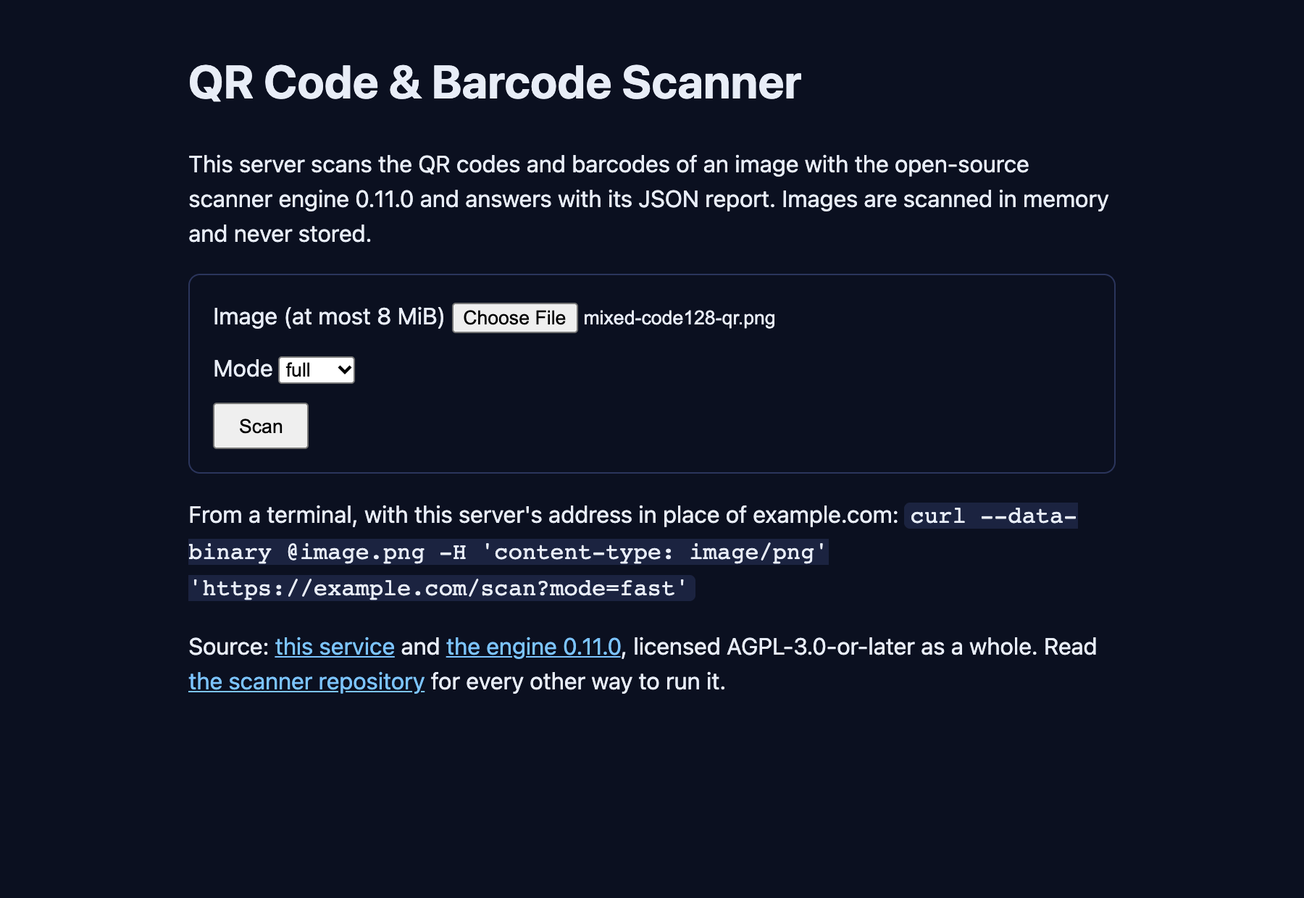
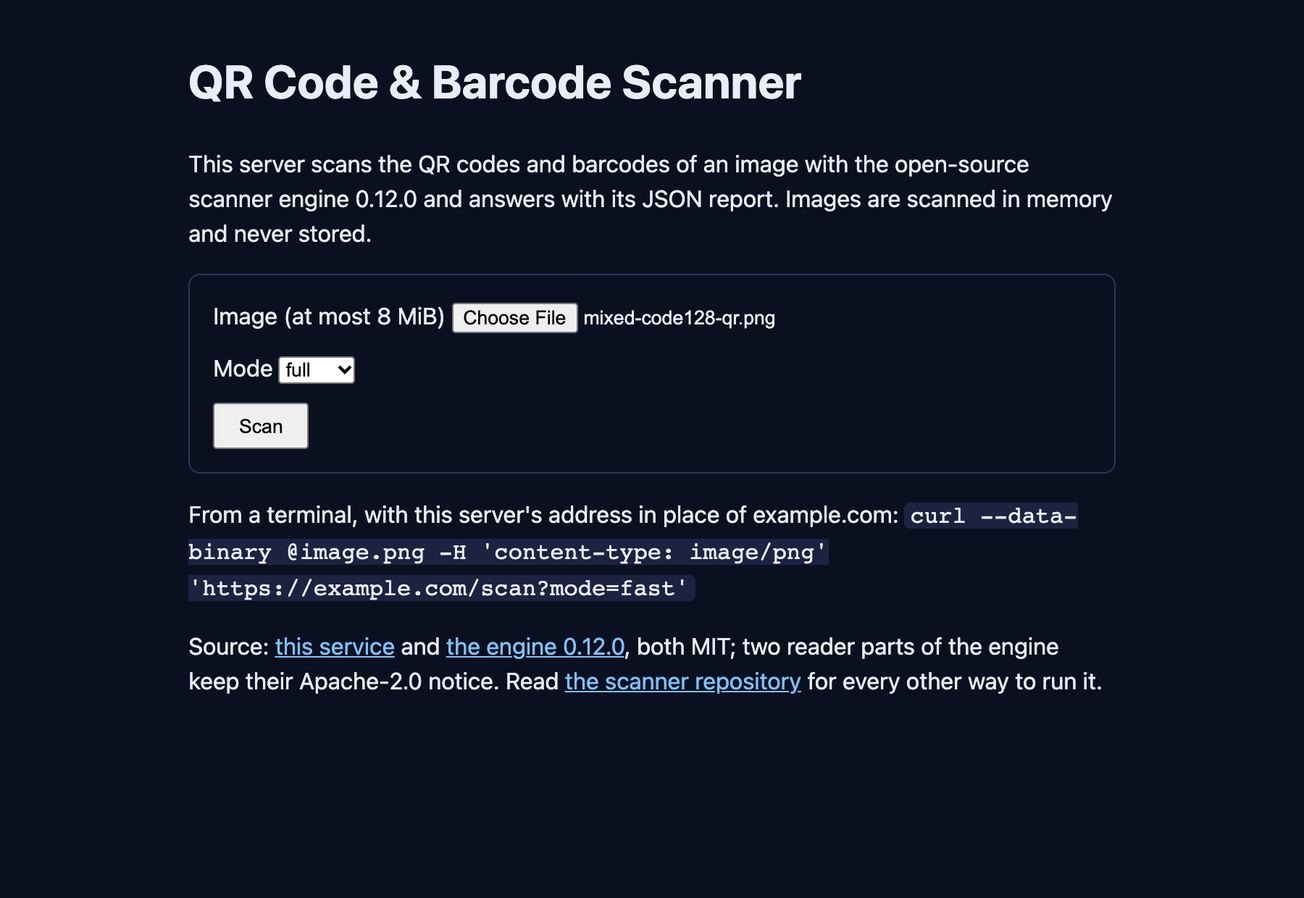
feat: stage from qrcode-ai-com/qrcode-barcode-scanner-rust
Staged from qrcode-ai-com/qrcode-barcode-scanner-rust at 383aa3d6448678af30e78440b86df7ee623f76de.

Changed region(s): [[0.1244, 0.7048, 0.84, 0.7968], [0.28, 0.2145, 0.8711, 0.2452]]

diff --git a/README.md b/README.md
@@ -13,11 +13,11 @@
 
 ### Ask AI
 
-[![ChatGPT](https://raw.githubusercontent.com/qrcode-ai-com/qrcode-barcode-scanner-rust/main/docs/assets/actions/chatgpt-v2.svg)](https://chatgpt.com/?q=Help%20me%20understand%20QR%20Code%20%26%20Barcode%20Scanner%20HTTP%20service%20%28distribution%2Fhttp%2FREADME.md%29%20for%20QR%20Code%20%26%20Barcode%20Scanner%2C%20the%20open-source%20scanner.%20Source%20documentation%3B%20publication%20is%20not%20implied.%20Provided%20README%20context%20%28verify%20against%20the%20sources%29%3A%20This%20is%20a%20small%2C%20self-hosted%20HTTP%20service%20for%20the%20QR%20Code%20%26%20Barcode%20Scanner%2C%20the%20open-source%20engine%20that%20reads%20QR%20codes%20and%20barcodes%20in%20images.%20POST%20%2Fscan%20takes%20an%20image%20and%20answers%20with%20the%20engine%27s%20JSON%20report%2C%20unchanged%3A%20every%20code%20found%2C%20its%20format%2C%20its%20exact%20text%20and%20where%20it%20sits%20in%20the%20image.%20The%20service%20runs%20the%20published%20npm%20package%20%40qrcode-ai-com%2Fqrcode-barcode-scanner%400.11.0%20in%20a%20Node.js%2022%20container%20image%20that%20you%20build%20and%20run%20on%20your%20own%20server%20or%20deploy%20host.%20Images%20are%20scanned%20in%20Read%20the%20public%20documentation%20below.%20Explain%20what%20this%20destination%20does%2C%20its%20documented%20installation%20or%20access%20steps%2C%20a%20minimal%20example%20if%20supported%2C%20prerequisites%2C%20limitations%20and%20license.%20Distinguish%20published%20packages%20from%20working%20source%20and%20preparation.%20Cite%20your%20sources%3B%20if%20a%20page%20is%20unavailable%20or%20a%20fact%20cannot%20be%20checked%2C%20say%20so.%20Do%20not%20invent%20installation%20commands%2C%20benchmark%20results%20or%20comparisons.%20Answer%20in%20my%20language.%20Public%20sources%3A%20https%3A%2F%2Fgithub.com%2Fqrcode-ai-com%2Fqrcode-barcode-scanner-rust%2Fblob%2Fmain%2Fdistribution%2Fhttp%2FREADME.md%20https%3A%2F%2Fqrcode-ai.com%2Fen-US%2Fqr-code-scanner%20https%3A%2F%2Fqrcode-ai.com%2Fen-US%2Fbarcode-scanner%20https%3A%2F%2Fqrcode-ai.com%2Fen-US%2Fqr-code-scanner%2Fdocker%20https%3A%2F%2Fqrcode-ai.com%2Fen-US%2Fbarcode-scanner%2Fdocker%20https%3A%2F%2Fqrcode-ai.com%2Fen-US%2Fqr-code-generator%20https%3A%2F%2Fqrcode-ai.com%2Fen-US%2Fbarcode-generator)
-[![Claude](https://raw.githubusercontent.com/qrcode-ai-com/qrcode-barcode-scanner-rust/main/docs/assets/actions/claude-v2.svg)](https://claude.ai/new?q=Help%20me%20understand%20QR%20Code%20%26%20Barcode%20Scanner%20HTTP%20service%20%28distribution%2Fhttp%2FREADME.md%29%20for%20QR%20Code%20%26%20Barcode%20Scanner%2C%20the%20open-source%20scanner.%20Source%20documentation%3B%20publication%20is%20not%20implied.%20Provided%20README%20context%20%28verify%20against%20the%20sources%29%3A%20This%20is%20a%20small%2C%20self-hosted%20HTTP%20service%20for%20the%20QR%20Code%20%26%20Barcode%20Scanner%2C%20the%20open-source%20engine%20that%20reads%20QR%20codes%20and%20barcodes%20in%20images.%20POST%20%2Fscan%20takes%20an%20image%20and%20answers%20with%20the%20engine%27s%20JSON%20report%2C%20unchanged%3A%20every%20code%20found%2C%20its%20format%2C%20its%20exact%20text%20and%20where%20it%20sits%20in%20the%20image.%20The%20service%20runs%20the%20published%20npm%20package%20%40qrcode-ai-com%2Fqrcode-barcode-scanner%400.11.0%20in%20a%20Node.js%2022%20container%20image%20that%20you%20build%20and%20run%20on%20your%20own%20server%20or%20deploy%20host.%20Images%20are%20scanned%20in%20Read%20the%20public%20documentation%20below.%20Explain%20what%20this%20destination%20does%2C%20its%20documented%20installation%20or%20access%20steps%2C%20a%20minimal%20example%20if%20supported%2C%20prerequisites%2C%20limitations%20and%20license.%20Distinguish%20published%20packages%20from%20working%20source%20and%20preparation.%20Cite%20your%20sources%3B%20if%20a%20page%20is%20unavailable%20or%20a%20fact%20cannot%20be%20checked%2C%20say%20so.%20Do%20not%20invent%20installation%20commands%2C%20benchmark%20results%20or%20comparisons.%20Answer%20in%20my%20language.%20Public%20sources%3A%20https%3A%2F%2Fgithub.com%2Fqrcode-ai-com%2Fqrcode-barcode-scanner-rust%2Fblob%2Fmain%2Fdistribution%2Fhttp%2FREADME.md%20https%3A%2F%2Fqrcode-ai.com%2Fen-US%2Fqr-code-scanner%20https%3A%2F%2Fqrcode-ai.com%2Fen-US%2Fbarcode-scanner%20https%3A%2F%2Fqrcode-ai.com%2Fen-US%2Fqr-code-scanner%2Fdocker%20https%3A%2F%2Fqrcode-ai.com%2Fen-US%2Fbarcode-scanner%2Fdocker%20https%3A%2F%2Fqrcode-ai.com%2Fen-US%2Fqr-code-generator%20https%3A%2F%2Fqrcode-ai.com%2Fen-US%2Fbarcode-generator)
+[![ChatGPT](https://raw.githubusercontent.com/qrcode-ai-com/qrcode-barcode-scanner-rust/main/docs/assets/actions/chatgpt-v2.svg)](https://chatgpt.com/?q=Help%20me%20understand%20QR%20Code%20%26%20Barcode%20Scanner%20HTTP%20service%20%28distribution%2Fhttp%2FREADME.md%29%20for%20QR%20Code%20%26%20Barcode%20Scanner%2C%20the%20open-source%20scanner.%20Source%20documentation%3B%20publication%20is%20not%20implied.%20Provided%20README%20context%20%28verify%20against%20the%20sources%29%3A%20This%20is%20a%20small%2C%20self-hosted%20HTTP%20service%20for%20the%20QR%20Code%20%26%20Barcode%20Scanner%2C%20the%20open-source%20engine%20that%20reads%20QR%20codes%20and%20barcodes%20in%20images.%20POST%20%2Fscan%20takes%20an%20image%20and%20answers%20with%20the%20engine%27s%20JSON%20report%2C%20unchanged%3A%20every%20code%20found%2C%20its%20format%2C%20its%20exact%20text%20and%20where%20it%20sits%20in%20the%20image.%20The%20service%20runs%20the%20published%20npm%20package%20%40qrcode-ai-com%2Fqrcode-barcode-scanner%400.12.0%20in%20a%20Node.js%2022%20container%20image%20that%20you%20build%20and%20run%20on%20your%20own%20server%20or%20deploy%20host.%20Images%20are%20scanned%20in%20Read%20the%20public%20documentation%20below.%20Explain%20what%20this%20destination%20does%2C%20its%20documented%20installation%20or%20access%20steps%2C%20a%20minimal%20example%20if%20supported%2C%20prerequisites%2C%20limitations%20and%20license.%20Distinguish%20published%20packages%20from%20working%20source%20and%20preparation.%20Cite%20your%20sources%3B%20if%20a%20page%20is%20unavailable%20or%20a%20fact%20cannot%20be%20checked%2C%20say%20so.%20Do%20not%20invent%20installation%20commands%2C%20benchmark%20results%20or%20comparisons.%20Answer%20in%20my%20language.%20Public%20sources%3A%20https%3A%2F%2Fgithub.com%2Fqrcode-ai-com%2Fqrcode-barcode-scanner-rust%2Fblob%2Fmain%2Fdistribution%2Fhttp%2FREADME.md%20https%3A%2F%2Fqrcode-ai.com%2Fen-US%2Fqr-code-scanner%20https%3A%2F%2Fqrcode-ai.com%2Fen-US%2Fbarcode-scanner%20https%3A%2F%2Fqrcode-ai.com%2Fen-US%2Fqr-code-scanner%2Fdocker%20https%3A%2F%2Fqrcode-ai.com%2Fen-US%2Fbarcode-scanner%2Fdocker%20https%3A%2F%2Fqrcode-ai.com%2Fen-US%2Fqr-code-generator%20https%3A%2F%2Fqrcode-ai.com%2Fen-US%2Fbarcode-generator)
+[![Claude](https://raw.githubusercontent.com/qrcode-ai-com/qrcode-barcode-scanner-rust/main/docs/assets/actions/claude-v2.svg)](https://claude.ai/new?q=Help%20me%20understand%20QR%20Code%20%26%20Barcode%20Scanner%20HTTP%20service%20%28distribution%2Fhttp%2FREADME.md%29%20for%20QR%20Code%20%26%20Barcode%20Scanner%2C%20the%20open-source%20scanner.%20Source%20documentation%3B%20publication%20is%20not%20implied.%20Provided%20README%20context%20%28verify%20against%20the%20sources%29%3A%20This%20is%20a%20small%2C%20self-hosted%20HTTP%20service%20for%20the%20QR%20Code%20%26%20Barcode%20Scanner%2C%20the%20open-source%20engine%20that%20reads%20QR%20codes%20and%20barcodes%20in%20images.%20POST%20%2Fscan%20takes%20an%20image%20and%20answers%20with%20the%20engine%27s%20JSON%20report%2C%20unchanged%3A%20every%20code%20found%2C%20its%20format%2C%20its%20exact%20text%20and%20where%20it%20sits%20in%20the%20image.%20The%20service%20runs%20the%20published%20npm%20package%20%40qrcode-ai-com%2Fqrcode-barcode-scanner%400.12.0%20in%20a%20Node.js%2022%20container%20image%20that%20you%20build%20and%20run%20on%20your%20own%20server%20or%20deploy%20host.%20Images%20are%20scanned%20in%20Read%20the%20public%20documentation%20below.%20Explain%20what%20this%20destination%20does%2C%20its%20documented%20installation%20or%20access%20steps%2C%20a%20minimal%20example%20if%20supported%2C%20prerequisites%2C%20limitations%20and%20license.%20Distinguish%20published%20packages%20from%20working%20source%20and%20preparation.%20Cite%20your%20sources%3B%20if%20a%20page%20is%20unavailable%20or%20a%20fact%20cannot%20be%20checked%2C%20say%20so.%20Do%20not%20invent%20installation%20commands%2C%20benchmark%20results%20or%20comparisons.%20Answer%20in%20my%20language.%20Public%20sources%3A%20https%3A%2F%2Fgithub.com%2Fqrcode-ai-com%2Fqrcode-barcode-scanner-rust%2Fblob%2Fmain%2Fdistribution%2Fhttp%2FREADME.md%20https%3A%2F%2Fqrcode-ai.com%2Fen-US%2Fqr-code-scanner%20https%3A%2F%2Fqrcode-ai.com%2Fen-US%2Fbarcode-scanner%20https%3A%2F%2Fqrcode-ai.com%2Fen-US%2Fqr-code-scanner%2Fdocker%20https%3A%2F%2Fqrcode-ai.com%2Fen-US%2Fbarcode-scanner%2Fdocker%20https%3A%2F%2Fqrcode-ai.com%2Fen-US%2Fqr-code-generator%20https%3A%2F%2Fqrcode-ai.com%2Fen-US%2Fbarcode-generator)
 [![Gemini](https://raw.githubusercontent.com/qrcode-ai-com/qrcode-barcode-scanner-rust/main/docs/assets/actions/gemini-v2.svg)](https://gemini.google.com/)
-[![Grok](https://raw.githubusercontent.com/qrcode-ai-com/qrcode-barcode-scanner-rust/main/docs/assets/actions/grok-v2.svg)](https://grok.com/?q=Help%20me%20understand%20QR%20Code%20%26%20Barcode%20Scanner%20HTTP%20service%20%28distribution%2Fhttp%2FREADME.md%29%20for%20QR%20Code%20%26%20Barcode%20Scanner%2C%20the%20open-source%20scanner.%20Source%20documentation%3B%20publication%20is%20not%20implied.%20Provided%20README%20context%20%28verify%20against%20the%20sources%29%3A%20This%20is%20a%20small%2C%20self-hosted%20HTTP%20service%20for%20the%20QR%20Code%20%26%20Barcode%20Scanner%2C%20the%20open-source%20engine%20that%20reads%20QR%20codes%20and%20barcodes%20in%20images.%20POST%20%2Fscan%20takes%20an%20image%20and%20answers%20with%20the%20engine%27s%20JSON%20report%2C%20unchanged%3A%20every%20code%20found%2C%20its%20format%2C%20its%20exact%20text%20and%20where%20it%20sits%20in%20the%20image.%20The%20service%20runs%20the%20published%20npm%20package%20%40qrcode-ai-com%2Fqrcode-barcode-scanner%400.11.0%20in%20a%20Node.js%2022%20container%20image%20that%20you%20build%20and%20run%20on%20your%20own%20server%20or%20deploy%20host.%20Images%20are%20scanned%20in%20Read%20the%20public%20documentation%20below.%20Explain%20what%20this%20destination%20does%2C%20its%20documented%20installation%20or%20access%20steps%2C%20a%20minimal%20example%20if%20supported%2C%20prerequisites%2C%20limitations%20and%20license.%20Distinguish%20published%20packages%20from%20working%20source%20and%20preparation.%20Cite%20your%20sources%3B%20if%20a%20page%20is%20unavailable%20or%20a%20fact%20cannot%20be%20checked%2C%20say%20so.%20Do%20not%20invent%20installation%20commands%2C%20benchmark%20results%20or%20comparisons.%20Answer%20in%20my%20language.%20Public%20sources%3A%20https%3A%2F%2Fgithub.com%2Fqrcode-ai-com%2Fqrcode-barcode-scanner-rust%2Fblob%2Fmain%2Fdistribution%2Fhttp%2FREADME.md%20https%3A%2F%2Fqrcode-ai.com%2Fen-US%2Fqr-code-scanner%20https%3A%2F%2Fqrcode-ai.com%2Fen-US%2Fbarcode-scanner%20https%3A%2F%2Fqrcode-ai.com%2Fen-US%2Fqr-code-scanner%2Fdocker%20https%3A%2F%2Fqrcode-ai.com%2Fen-US%2Fbarcode-scanner%2Fdocker%20https%3A%2F%2Fqrcode-ai.com%2Fen-US%2Fqr-code-generator%20https%3A%2F%2Fqrcode-ai.com%2Fen-US%2Fbarcode-generator)
-[![Perplexity](https://raw.githubusercontent.com/qrcode-ai-com/qrcode-barcode-scanner-rust/main/docs/assets/actions/perplexity-v2.svg)](https://www.perplexity.ai/?q=Help%20me%20understand%20QR%20Code%20%26%20Barcode%20Scanner%20HTTP%20service%20%28distribution%2Fhttp%2FREADME.md%29%20for%20QR%20Code%20%26%20Barcode%20Scanner%2C%20the%20open-source%20scanner.%20Source%20documentation%3B%20publication%20is%20not%20implied.%20Provided%20README%20context%20%28verify%20against%20the%20sources%29%3A%20This%20is%20a%20small%2C%20self-hosted%20HTTP%20service%20for%20the%20QR%20Code%20%26%20Barcode%20Scanner%2C%20the%20open-source%20engine%20that%20reads%20QR%20codes%20and%20barcodes%20in%20images.%20POST%20%2Fscan%20takes%20an%20image%20and%20answers%20with%20the%20engine%27s%20JSON%20report%2C%20unchanged%3A%20every%20code%20found%2C%20its%20format%2C%20its%20exact%20text%20and%20where%20it%20sits%20in%20the%20image.%20The%20service%20runs%20the%20published%20npm%20package%20%40qrcode-ai-com%2Fqrcode-barcode-scanner%400.11.0%20in%20a%20Node.js%2022%20container%20image%20that%20you%20build%20and%20run%20on%20your%20own%20server%20or%20deploy%20host.%20Images%20are%20scanned%20in%20Read%20the%20public%20documentation%20below.%20Explain%20what%20this%20destination%20does%2C%20its%20documented%20installation%20or%20access%20steps%2C%20a%20minimal%20example%20if%20supported%2C%20prerequisites%2C%20limitations%20and%20license.%20Distinguish%20published%20packages%20from%20working%20source%20and%20preparation.%20Cite%20your%20sources%3B%20if%20a%20page%20is%20unavailable%20or%20a%20fact%20cannot%20be%20checked%2C%20say%20so.%20Do%20not%20invent%20installation%20commands%2C%20benchmark%20results%20or%20comparisons.%20Answer%20in%20my%20language.%20Public%20sources%3A%20https%3A%2F%2Fgithub.com%2Fqrcode-ai-com%2Fqrcode-barcode-scanner-rust%2Fblob%2Fmain%2Fdistribution%2Fhttp%2FREADME.md%20https%3A%2F%2Fqrcode-ai.com%2Fen-US%2Fqr-code-scanner%20https%3A%2F%2Fqrcode-ai.com%2Fen-US%2Fbarcode-scanner%20https%3A%2F%2Fqrcode-ai.com%2Fen-US%2Fqr-code-scanner%2Fdocker%20https%3A%2F%2Fqrcode-ai.com%2Fen-US%2Fbarcode-scanner%2Fdocker%20https%3A%2F%2Fqrcode-ai.com%2Fen-US%2Fqr-code-generator%20https%3A%2F%2Fqrcode-ai.com%2Fen-US%2Fbarcode-generator)
+[![Grok](https://raw.githubusercontent.com/qrcode-ai-com/qrcode-barcode-scanner-rust/main/docs/assets/actions/grok-v2.svg)](https://grok.com/?q=Help%20me%20understand%20QR%20Code%20%26%20Barcode%20Scanner%20HTTP%20service%20%28distribution%2Fhttp%2FREADME.md%29%20for%20QR%20Code%20%26%20Barcode%20Scanner%2C%20the%20open-source%20scanner.%20Source%20documentation%3B%20publication%20is%20not%20implied.%20Provided%20README%20context%20%28verify%20against%20the%20sources%29%3A%20This%20is%20a%20small%2C%20self-hosted%20HTTP%20service%20for%20the%20QR%20Code%20%26%20Barcode%20Scanner%2C%20the%20open-source%20engine%20that%20reads%20QR%20codes%20and%20barcodes%20in%20images.%20POST%20%2Fscan%20takes%20an%20image%20and%20answers%20with%20the%20engine%27s%20JSON%20report%2C%20unchanged%3A%20every%20code%20found%2C%20its%20format%2C%20its%20exact%20text%20and%20where%20it%20sits%20in%20the%20image.%20The%20service%20runs%20the%20published%20npm%20package%20%40qrcode-ai-com%2Fqrcode-barcode-scanner%400.12.0%20in%20a%20Node.js%2022%20container%20image%20that%20you%20build%20and%20run%20on%20your%20own%20server%20or%20deploy%20host.%20Images%20are%20scanned%20in%20Read%20the%20public%20documentation%20below.%20Explain%20what%20this%20destination%20does%2C%20its%20documented%20installation%20or%20access%20steps%2C%20a%20minimal%20example%20if%20supported%2C%20prerequisites%2C%20limitations%20and%20license.%20Distinguish%20published%20packages%20from%20working%20source%20and%20preparation.%20Cite%20your%20sources%3B%20if%20a%20page%20is%20unavailable%20or%20a%20fact%20cannot%20be%20checked%2C%20say%20so.%20Do%20not%20invent%20installation%20commands%2C%20benchmark%20results%20or%20comparisons.%20Answer%20in%20my%20language.%20Public%20sources%3A%20https%3A%2F%2Fgithub.com%2Fqrcode-ai-com%2Fqrcode-barcode-scanner-rust%2Fblob%2Fmain%2Fdistribution%2Fhttp%2FREADME.md%20https%3A%2F%2Fqrcode-ai.com%2Fen-US%2Fqr-code-scanner%20https%3A%2F%2Fqrcode-ai.com%2Fen-US%2Fbarcode-scanner%20https%3A%2F%2Fqrcode-ai.com%2Fen-US%2Fqr-code-scanner%2Fdocker%20https%3A%2F%2Fqrcode-ai.com%2Fen-US%2Fbarcode-scanner%2Fdocker%20https%3A%2F%2Fqrcode-ai.com%2Fen-US%2Fqr-code-generator%20https%3A%2F%2Fqrcode-ai.com%2Fen-US%2Fbarcode-generator)
+[![Perplexity](https://raw.githubusercontent.com/qrcode-ai-com/qrcode-barcode-scanner-rust/main/docs/assets/actions/perplexity-v2.svg)](https://www.perplexity.ai/?q=Help%20me%20understand%20QR%20Code%20%26%20Barcode%20Scanner%20HTTP%20service%20%28distribution%2Fhttp%2FREADME.md%29%20for%20QR%20Code%20%26%20Barcode%20Scanner%2C%20the%20open-source%20scanner.%20Source%20documentation%3B%20publication%20is%20not%20implied.%20Provided%20README%20context%20%28verify%20against%20the%20sources%29%3A%20This%20is%20a%20small%2C%20self-hosted%20HTTP%20service%20for%20the%20QR%20Code%20%26%20Barcode%20Scanner%2C%20the%20open-source%20engine%20that%20reads%20QR%20codes%20and%20barcodes%20in%20images.%20POST%20%2Fscan%20takes%20an%20image%20and%20answers%20with%20the%20engine%27s%20JSON%20report%2C%20unchanged%3A%20every%20code%20found%2C%20its%20format%2C%20its%20exact%20text%20and%20where%20it%20sits%20in%20the%20image.%20The%20service%20runs%20the%20published%20npm%20package%20%40qrcode-ai-com%2Fqrcode-barcode-scanner%400.12.0%20in%20a%20Node.js%2022%20container%20image%20that%20you%20build%20and%20run%20on%20your%20own%20server%20or%20deploy%20host.%20Images%20are%20scanned%20in%20Read%20the%20public%20documentation%20below.%20Explain%20what%20this%20destination%20does%2C%20its%20documented%20installation%20or%20access%20steps%2C%20a%20minimal%20example%20if%20supported%2C%20prerequisites%2C%20limitations%20and%20license.%20Distinguish%20published%20packages%20from%20working%20source%20and%20preparation.%20Cite%20your%20sources%3B%20if%20a%20page%20is%20unavailable%20or%20a%20fact%20cannot%20be%20checked%2C%20say%20so.%20Do%20not%20invent%20installation%20commands%2C%20benchmark%20results%20or%20comparisons.%20Answer%20in%20my%20language.%20Public%20sources%3A%20https%3A%2F%2Fgithub.com%2Fqrcode-ai-com%2Fqrcode-barcode-scanner-rust%2Fblob%2Fmain%2Fdistribution%2Fhttp%2FREADME.md%20https%3A%2F%2Fqrcode-ai.com%2Fen-US%2Fqr-code-scanner%20https%3A%2F%2Fqrcode-ai.com%2Fen-US%2Fbarcode-scanner%20https%3A%2F%2Fqrcode-ai.com%2Fen-US%2Fqr-code-scanner%2Fdocker%20https%3A%2F%2Fqrcode-ai.com%2Fen-US%2Fbarcode-scanner%2Fdocker%20https%3A%2F%2Fqrcode-ai.com%2Fen-US%2Fqr-code-generator%20https%3A%2F%2Fqrcode-ai.com%2Fen-US%2Fbarcode-generator)
 [![Copilot](https://raw.githubusercontent.com/qrcode-ai-com/qrcode-barcode-scanner-rust/main/docs/assets/actions/copilot-v2.svg)](https://copilot.com/)
 [![DeepSeek](https://raw.githubusercontent.com/qrcode-ai-com/qrcode-barcode-scanner-rust/main/docs/assets/actions/deepseek-v2.svg)](https://chat.deepseek.com/)
 [![Meta AI](https://raw.githubusercontent.com/qrcode-ai-com/qrcode-barcode-scanner-rust/main/docs/assets/actions/meta-ai-v2.svg)](https://www.meta.ai/)
@@ -31,14 +31,14 @@ Choose an AI assistant to explain this destination using its public sources. Gem
 Use the code block's copy control, or select its complete text, then paste it into your assistant.
 
 ```text
-Help me understand QR Code & Barcode Scanner HTTP service (distribution/http/README.md) for QR Code & Barcode Scanner, the open-source scanner. Source documentation; publication is not implied. Provided README context (verify against the sources): This is a small, self-hosted HTTP service for the QR Code & Barcode Scanner, the open-source engine that reads QR codes and barcodes in images. POST /scan takes an image and answers with the engine's JSON report, unchanged: every code found, its format, its exact text and where it sits in the image. The service runs the published npm package @qrcode-ai-com/qrcode-barcode-scanner@0.11.0 in a Node.js 22 container image that you build and run on your own server or deploy host. Images are scanned in Read the public documentation below. Explain what this destination does, its documented installation or access steps, a minimal example if supported, prerequisites, limitations and license. Distinguish published packages from working source and preparation. Cite your sources; if a page is unavailable or a fact cannot be checked, say so. Do not invent installation commands, benchmark results or comparisons. Answer in my language. Public sources: https://github.com/qrcode-ai-com/qrcode-barcode-scanner-rust/blob/main/distribution/http/README.md https://qrcode-ai.com/en-US/qr-code-scanner https://qrcode-ai.com/en-US/barcode-scanner https://qrcode-ai.com/en-US/qr-code-scanner/docker https://qrcode-ai.com/en-US/barcode-scanner/docker https://qrcode-ai.com/en-US/qr-code-generator https://qrcode-ai.com/en-US/barcode-generator
+Help me understand QR Code & Barcode Scanner HTTP service (distribution/http/README.md) for QR Code & Barcode Scanner, the open-source scanner. Source documentation; publication is not implied. Provided README context (verify against the sources): This is a small, self-hosted HTTP service for the QR Code & Barcode Scanner, the open-source engine that reads QR codes and barcodes in images. POST /scan takes an image and answers with the engine's JSON report, unchanged: every code found, its format, its exact text and where it sits in the image. The service runs the published npm package @qrcode-ai-com/qrcode-barcode-scanner@0.12.0 in a Node.js 22 container image that you build and run on your own server or deploy host. Images are scanned in Read the public documentation below. Explain what this destination does, its documented installation or access steps, a minimal example if supported, prerequisites, limitations and license. Distinguish published packages from working source and preparation. Cite your sources; if a page is unavailable or a fact cannot be checked, say so. Do not invent installation commands, benchmark results or comparisons. Answer in my language. Public sources: https://github.com/qrcode-ai-com/qrcode-barcode-scanner-rust/blob/main/distribution/http/README.md https://qrcode-ai.com/en-US/qr-code-scanner https://qrcode-ai.com/en-US/barcode-scanner https://qrcode-ai.com/en-US/qr-code-scanner/docker https://qrcode-ai.com/en-US/barcode-scanner/docker https://qrcode-ai.com/en-US/qr-code-generator https://qrcode-ai.com/en-US/barcode-generator
 ```
 
 </details>
 
 <!-- /qrcode-ai-readme-actions:v2 -->
 
-This is a small, self-hosted HTTP service for the QR Code & Barcode Scanner, the open-source engine that reads QR codes and barcodes in images. `POST /scan` takes an image and answers with the engine's JSON report, unchanged: every code found, its format, its exact text and where it sits in the image. The service runs the published npm package `@qrcode-ai-com/qrcode-barcode-scanner@0.11.0` in a Node.js 22 container image that you build and run on your own server or deploy host. Images are scanned in memory and never stored, and the service makes no outbound request. No registry serves the image yet: build it from these files as shown below.
+This is a small, self-hosted HTTP service for the QR Code & Barcode Scanner, the open-source engine that reads QR codes and barcodes in images. `POST /scan` takes an image and answers with the engine's JSON report, unchanged: every code found, its format, its exact text and where it sits in the image. The service runs the published npm package `@qrcode-ai-com/qrcode-barcode-scanner@0.12.0` in a Node.js 22 container image that you build and run on your own server or deploy host. Images are scanned in memory and never stored, and the service makes no outbound request. No registry serves the image yet: build it from these files as shown below.
 
 The [QR code scanner](https://qrcode-ai.com/en-US/qr-code-scanner) and the [barcode scanner](https://qrcode-ai.com/en-US/barcode-scanner) let you try the same engine in a browser before you deploy anything. For the container routes, read the [QR code scanner Docker guide](https://qrcode-ai.com/en-US/qr-code-scanner/docker) and the [barcode scanner Docker guide](https://qrcode-ai.com/en-US/barcode-scanner/docker).
 
@@ -53,10 +53,10 @@ The picture is the page the service shows at its root address in a browser, with
 ## Files
 
 - `server.mjs`: the whole service, on Node.js's own HTTP server and the engine package. No framework and no other dependency.
-- `package.json` and `package-lock.json`: the one dependency, the engine 0.11.0, and its six native packages, each with its npm registry address and sha512.
+- `package.json` and `package-lock.json`: the one dependency, the engine 0.12.0, and its six native packages, each with its npm registry address and sha512.
 - `Dockerfile` and `.dockerignore`: the image, from `node:22.22.2-bookworm-slim` pinned by digest. It runs `npm ci --omit=dev --ignore-scripts`, compiles nothing and runs the service as user `1000:1000`.
 - `test/consumer.mjs`: a client that judges any running copy of the service from outside, in sixteen checks. `test/server.test.mjs`: the service's tests in one process.
-- `LICENSE` (MIT, for these files), `LICENSE-NOTES.md` (what the image holds and under which license) and `licenses/engine-0.11.0/` (the engine's third-party notices at tag `v0.11.0`).
+- `LICENSE` (MIT, for these files), `LICENSE-NOTES.md` (what the image holds and under which license) and `licenses/engine-0.12.0/` (the engine's third-party notices at tag `v0.12.0`).
 - `render.yaml` and `.do/deploy.template.yaml`: the Render Blueprint and the DigitalOcean App Platform app spec, described in [Deploy it on a host](#deploy-it-on-a-host).
 - `mirror/test.yml`: the workflow of the service's own repository. It checks that every file comes from the engine, builds the image from the root as a host does and judges it with the consumer.
 - `media/`: the two pictures of this page, taken from the real service.
@@ -90,9 +90,9 @@ A host that builds a Dockerfile from a Git repository can run the service from [
 
 `render.yaml` is a [Render Blueprint](https://render.com/docs/blueprint-spec) for one web service built from that Dockerfile on Render's `0.5c-512mb` plan, half a CPU and 512 MB, with `/healthz` as its health check, automatic deploys off, one scan at a time and four times the engine's time budgets. A Blueprint created from the repository in your own Render account deploys it there; Render bills that plan $7 a month, prorated to the second. The free plan is not used: in a container limited to its 0.1 CPU, a scan of the mixed sample took 12 to 17 seconds and the engine cut every profile short at its budgets. The workflow below checks the file against the schema Render publishes and runs the image as the file asks Render to run it. No deployment on Render itself has been recorded yet.
 
-Railway reads no file of the repository for this service: its [config as code](https://docs.railway.com/reference/config-as-code) is deprecated, so a Railway template keeps its settings in Railway's template composer. The template for this service, from this repository, with public HTTP networking, `/healthz` as its health check and `QRSCAN_HTTP_MAX_CONCURRENT=1`, is not published yet; [its settings](https://github.com/qrcode-ai-com/qrcode-barcode-scanner-rust/blob/955df46d3cc621d773fc82c62d6ad0f2fbe6c0cf/distribution/railway/LISTING.md) are ready. Railway injects `PORT`, and the service listens on it.
+Railway reads no file of the repository for this service: its [config as code](https://docs.railway.com/reference/config-as-code) is deprecated, so a Railway template keeps its settings in Railway's template composer. The template for this service, from this repository, with public HTTP networking, `/healthz` as its health check and `QRSCAN_HTTP_MAX_CONCURRENT=1`, is not published yet; [its settings](https://github.com/qrcode-ai-com/qrcode-barcode-scanner-rust/blob/383aa3d6448678af30e78440b86df7ee623f76de/distribution/railway/LISTING.md) are ready. Railway injects `PORT`, and the service listens on it.
 
-`.do/deploy.template.yaml` is the [app spec](https://docs.digitalocean.com/products/app-platform/reference/app-spec/) that DigitalOcean's Deploy to DigitalOcean button reads: one App Platform service built from the Dockerfile on its smallest size, `apps-s-1vcpu-0.5gb` (1 shared vCPU and 512 MiB; App Platform's free tier covers static sites only), with `/healthz` as its health check and one scan at a time. No deployment on App Platform has been recorded yet. A 1-Click Droplet image for the DigitalOcean Marketplace, Ubuntu 24.04 with the service on port 80 behind a firewall, is [prepared](https://github.com/qrcode-ai-com/qrcode-barcode-scanner-rust/blob/955df46d3cc621d773fc82c62d6ad0f2fbe6c0cf/distribution/digitalocean/LISTING.md) and not listed.
+`.do/deploy.template.yaml` is the [app spec](https://docs.digitalocean.com/products/app-platform/reference/app-spec/) that DigitalOcean's Deploy to DigitalOcean button reads: one App Platform service built from the Dockerfile on its smallest size, `apps-s-1vcpu-0.5gb` (1 shared vCPU and 512 MiB; App Platform's free tier covers static sites only), with `/healthz` as its health check and one scan at a time. No deployment on App Platform has been recorded yet. A 1-Click Droplet image for the DigitalOcean Marketplace, Ubuntu 24.04 with the service on port 80 behind a firewall, is [prepared](https://github.com/qrcode-ai-com/qrcode-barcode-scanner-rust/blob/383aa3d6448678af30e78440b86df7ee623f76de/distribution/digitalocean/LISTING.md) and not listed.
 
 ## Scan an image
 
@@ -106,12 +106,12 @@ curl -F mode=full -F image=@label.png http://localhost:8080/scan
 The answer is the engine's report, as `application/json`. Below is an excerpt of the report the service gave for the mixed sample in the `full` mode: the two codes, the engine version and the trace summary. The full report also has where each code was found, the scannability score and hints.
 
 <p align="center">
-  <img src="media/scan-report.png" alt="An excerpt of the JSON report for the mixed sample: a QR code with the text https://qrc-ai.com/76xMa and a Code 128 with the text STOCK-4827, scanner version 0.11.0, budget not exhausted and no engine panic" width="60%">
+  <img src="media/scan-report.png" alt="An excerpt of the JSON report for the mixed sample: a QR code with the text https://qrc-ai.com/76xMa and a Code 128 with the text STOCK-4827, scanner version 0.12.0, budget not exhausted and no engine panic" width="60%">
 </p>
 
 | Request | Answer |
 | --- | --- |
-| `GET /healthz` | `200 {"status":"ok","service":"0.1.0","engine":"0.11.0"}` once the engine is loaded |
+| `GET /healthz` | `200 {"status":"ok","service":"0.1.1","engine":"0.12.0"}` once the engine is loaded |
 | `GET /` | the service, its limits, its privacy rule and its source, as JSON; the upload page for a browser |
 | `POST /scan` | `200` and the report. An empty report (no code found) is a `200` too |
 
@@ -151,7 +151,7 @@ The limits are the ones of the [MCP server](https://github.com/qrcode-ai-com/qrc
 
 ## Source offer
 
-The image runs the engine 0.11.0, which is licensed AGPL-3.0-or-later. Section 13 of that license asks a program that users reach over a network to offer them its source. The service does it on every answer: the `X-Source-Code` header names the source of the service at its exact commit, and `GET /` names it together with the engine's source at tag [`v0.11.0`](https://github.com/qrcode-ai-com/qrcode-barcode-scanner-rust/tree/v0.11.0). The commit comes from `SOURCE.json`, which the staged tree carries. If you change the service and let others use it, point these links at your own source.
+The service tells every user where its source is: the `X-Source-Code` header of each answer names the source of the service at its exact commit, and `GET /` names it together with the engine's source at tag [`v0.12.0`](https://github.com/qrcode-ai-com/qrcode-barcode-scanner-rust/tree/v0.12.0). The engine 0.12.0 is MIT, so no license requires this offer, but a user of a running service can read the exact code that served them. The commit comes from `SOURCE.json`, which the staged tree carries. If you change the service and let others use it, point these links at your own source.
 
 ## How it is tested
 
@@ -159,7 +159,7 @@ The workflow `.github/workflows/http-service.yml` of the [engine repository](htt
 
 - `unit` runs `test/server.test.mjs` on the published engine: the consumer below, a report compared field for field with a direct call of the engine, the limits, the source record, the busy and failure answers, and the log.
 - `image` stages the tree of the service's repository, checks it against the commit, builds the image on Linux x64 and on Linux arm64 runners, and saves it with its sha256 and its config digest.
-- `consume` loads each saved image on its own architecture and checks its user, labels and health check. It runs it with a read-only root filesystem, no Linux capability, and on a Docker network that has no route out. `test/consumer.mjs` then judges it from a second container: health, the JSON and the browser page of `GET /`, the source links, the mixed QR code and Code 128 sample in `fast`, `frame` and `full` as a raw body and as a form, with exactly `https://qrc-ai.com/76xMa` and `STOCK-4827` and engine 0.11.0, then each refusal. The job checks that the service cannot reach the network and that its log holds no query or decoded text, then removes the container, the network and the image and checks that they are gone.
+- `consume` loads each saved image on its own architecture and checks its user, labels and health check. It runs it with a read-only root filesystem, no Linux capability, and on a Docker network that has no route out. `test/consumer.mjs` then judges it from a second container: health, the JSON and the browser page of `GET /`, the source links, the mixed QR code and Code 128 sample in `fast`, `frame` and `full` as a raw body and as a form, with exactly `https://qrc-ai.com/76xMa` and `STOCK-4827` and engine 0.12.0, then each refusal. The job checks that the service cannot reach the network and that its log holds no query or decoded text, then removes the container, the network and the image and checks that they are gone.
 - `hosts` checks `render.yaml` in the staged tree against the schema Render publishes on the day of the run, `.do/deploy.template.yaml` with `doctl apps spec validate`, and that no file configures Railway, then runs the judged Linux x64 image as each host would. For Render: `PORT=10000`, the variables of the file, half a CPU and 512 MB. For Railway: an injected `PORT` that is not the default one, the template's variables, 1 vCPU and 512 MB. For App Platform: port 8080, the variables of the app spec, 1 vCPU and 512 MB. It refuses a host file whose budget scale is below twice one over its plan's share of a CPU. The consumer judges each run as above, and the job removes it.
 - `droplet` validates the Packer template of the 1-Click Droplet, runs its `install.sh` on a fresh Ubuntu 24.04 runner, checks the firewall and the unprivileged service user, judges the service on port 80 with the consumer, then removes it and checks that nothing answers.
 - `rehearse` pushes both judged images and their multi-architecture index to a local registry, exactly as the release does, reads the index back and pulls it.
@@ -168,7 +168,7 @@ The same consumer judges a deployed copy: `node test/consumer.mjs https://exampl
 
 ## Release it
 
-[RELEASING.md](https://github.com/qrcode-ai-com/qrcode-barcode-scanner-rust/blob/955df46d3cc621d773fc82c62d6ad0f2fbe6c0cf/RELEASING.md#http-service-image) has the steps. On a tag `http-v0.1.0`, the job `publish`, in the protected environment `container-http`, checks the tag against the service version, re-checks that the downloaded images are the ones the consumers judged, and pushes them to `ghcr.io/qrcode-ai-com/qrcode-barcode-scanner-http` as `0.1.0-amd64`, `0.1.0-arm64` and the index `0.1.0`. Nothing has been published yet, and a new GitHub package starts private until the owner makes it public.
+[RELEASING.md](https://github.com/qrcode-ai-com/qrcode-barcode-scanner-rust/blob/383aa3d6448678af30e78440b86df7ee623f76de/RELEASING.md#http-service-image) has the steps. On a tag `http-v0.1.1`, the job `publish`, in the protected environment `container-http`, checks the tag against the service version, re-checks that the downloaded images are the ones the consumers judged, and pushes them to `ghcr.io/qrcode-ai-com/qrcode-barcode-scanner-http` as `0.1.1-amd64`, `0.1.1-arm64` and the index `0.1.1`. Nothing has been published yet: no `http-v` tag exists, and a new GitHub package starts private until the owner makes it public.
 
 ## What it returns
 
@@ -218,7 +218,7 @@ To scan inside your own program instead of over HTTP, use a package that holds t
 
 ## License
 
-The image holds the scanner engine 0.11.0 and its native package, licensed AGPL-3.0-or-later in these published versions, so the image as a whole is distributed under AGPL-3.0-or-later, as its `org.opencontainers.image.licenses` label says. [LICENSE-NOTES.md](LICENSE-NOTES.md) lists every part and where its license text is in the image. The files of this folder are project source, available under the MIT License described below; they do not change the engine's license.
+The image holds the scanner engine 0.12.0 and its native package, published under the MIT License, so its `org.opencontainers.image.licenses` label is `MIT`. Two reader parts of the engine derive from rxing and keep their Apache-2.0 notice, which the image carries in `licenses/engine-0.12.0/`; Node.js and the Debian base keep their own licenses. [LICENSE-NOTES.md](LICENSE-NOTES.md) lists every part and where its license text is in the image. The files of this folder are project source, available under the MIT License described below. Version 0.1.0 of the service ran the engine 0.11.0, which keeps the license it was published with, AGPL-3.0-or-later.
 
 Maintained by **Thibaut Mélen & Nicolas Cella** for **QR Code AI**, a product of **SuperNovae Studio**.
 

diff --git a/LICENSE-NOTES.md b/LICENSE-NOTES.md
@@ -7,28 +7,33 @@ The image built from them is not only that source. It also holds:
 
 | Part | Version | License | Where its text is in the image |
 | --- | --- | --- | --- |
-| `@qrcode-ai-com/qrcode-barcode-scanner`, the scanner engine for Node.js | 0.11.0 | AGPL-3.0-or-later | `/opt/qrscan-http/node_modules/@qrcode-ai-com/qrcode-barcode-scanner/LICENSE` |
-| its native package for the image's platform (`linux-x64-gnu` or `linux-arm64-gnu`) | 0.11.0 | AGPL-3.0-or-later | `LICENSE` in that package's folder under `node_modules/@qrcode-ai-com/` |
-| the reader parts the engine derives from rxing 0.9.3 | as in engine 0.11.0 | Apache-2.0 | `/opt/qrscan-http/licenses/engine-0.11.0/` |
+| `@qrcode-ai-com/qrcode-barcode-scanner`, the scanner engine for Node.js | 0.12.0 | MIT | `/opt/qrscan-http/node_modules/@qrcode-ai-com/qrcode-barcode-scanner/LICENSE` |
+| its native package for the image's platform (`linux-x64-gnu` or `linux-arm64-gnu`) | 0.12.0 | MIT | `LICENSE` in that package's folder under `node_modules/@qrcode-ai-com/` |
+| the reader parts the engine derives from rxing 0.9.3 | as in engine 0.12.0 | Apache-2.0 | `/opt/qrscan-http/licenses/engine-0.12.0/` |
 | Node.js and the Debian base of the `node:22.22.2-bookworm-slim` image | as pinned in `Dockerfile` | their own licenses | as that base image ships them (Debian's under `/usr/share/doc`) |
 
-The engine 0.11.0 was published under AGPL-3.0-or-later, and the image runs it, so the image as a
-whole is distributed under **AGPL-3.0-or-later**. Its `org.opencontainers.image.licenses` label
-says so. The MIT grant of this folder's files does not change the engine's license.
+The engine 0.12.0 is published under the MIT License, like this folder's files, so the image's
+`org.opencontainers.image.licenses` label is `MIT`. Two isolated reader parts of the engine derive
+from rxing and keep their Apache-2.0 notice; the npm packages ship only the MIT `LICENSE`, so the
+image carries those notices itself, in `licenses/engine-0.12.0/`. Node.js and the Debian base keep
+their own licenses.
 
-## Corresponding source
+Version 0.1.0 of the service ran the engine 0.11.0, which was published under AGPL-3.0-or-later
+and keeps that license; an image built from version 0.1.0 is therefore AGPL-3.0-or-later as a
+whole.
 
-- The engine 0.11.0: tag `v0.11.0` of
-  [qrcode-ai-com/qrcode-barcode-scanner-rust](https://github.com/qrcode-ai-com/qrcode-barcode-scanner-rust/tree/v0.11.0),
-  commit `176ac96ef16ee330dbfc6ada10327d0b4e23a8b2`. The npm packages were built from it.
+## Source
+
+- The engine 0.12.0: tag `v0.12.0` of
+  [qrcode-ai-com/qrcode-barcode-scanner-rust](https://github.com/qrcode-ai-com/qrcode-barcode-scanner-rust/tree/v0.12.0),
+  commit `897dd50cdf27cbde54d408bf65e1ca4622035d42`. The npm packages were built from it.
 - The service: the folder `distribution/http` of the same repository, at the commit that
   `SOURCE.json` names next to `server.mjs` in the image.
 
-AGPL-3.0 section 13 asks a modified program that users reach over a network to offer them its
-source. The service does it on every answer: the `X-Source-Code` header and the `source` field of
-`GET /` name the service's source at its commit and the engine's source at `v0.11.0`. If you
+The service names its source on every answer: the `X-Source-Code` header and the `source` field of
+`GET /` name the service's source at its commit and the engine's source at `v0.12.0`. If you
 change the service and run it for others, point those links at your own source.
 
-`licenses/engine-0.11.0/THIRD-PARTY.md` and `LICENSE-APACHE-2.0` are copies of
+`licenses/engine-0.12.0/THIRD-PARTY.md` and `LICENSE-APACHE-2.0` are copies of
 `crates/qrcode-ai-scanner/THIRD-PARTY.md` and `crates/qrcode-ai-scanner/LICENSE-APACHE-2.0` at tag
-`v0.11.0`, byte for byte.
+`v0.12.0`, byte for byte.

diff --git a/licenses/engine-0.12.0/THIRD-PARTY.md b/licenses/engine-0.12.0/THIRD-PARTY.md
@@ -1,6 +1,6 @@
 # Third-party source notices
 
-The scanner is licensed under AGPL-3.0-or-later. Two isolated parts of its rxing
+First-party scanner source is licensed under MIT. Two isolated parts of its rxing
 adapter derive from rxing 0.9.3 (`rxing-core/rxing`), a Rust port of ZXing, and
 retain their original Apache-2.0 copyright and license notices. The Apache
 license is included as `LICENSE-APACHE-2.0`.
